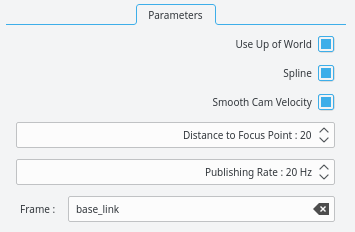
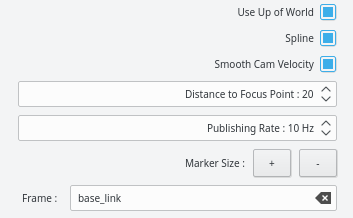
rqt_pose_interpolator: added buttons to increase and decrease the marker sizes

diff --git a/rqt_pose_interpolator/src/trajectory_editor.cpp b/rqt_pose_interpolator/src/trajectory_editor.cpp
@@ -54,6 +54,9 @@ void TrajectoryEditor::initPlugin(qt_gui_cpp::PluginContext& context)
   connect(ui_.set_pose_to_cam_button, SIGNAL(clicked(bool)), this, SLOT(setCurrentPoseToCam()));
   connect(ui_.frame_line_edit, SIGNAL(editingFinished()), this, SLOT(setMarkerFrames()));
   connect(ui_.splines_check_box, SIGNAL(stateChanged(int)), this, SLOT(updateTrajectory()));
+  connect(ui_.marker_size_increase, SIGNAL(clicked(bool)), this, SLOT(increaseMarkerScale()));
+  connect(ui_.marker_size_decrease, SIGNAL(clicked(bool)), this, SLOT(decreaseMarkerScale()));
+
   connect(ui_.open_file_push_button, SIGNAL(clicked(bool)), this, SLOT(loadTrajectoryFromFile()));
   connect(ui_.save_file_push_button, SIGNAL(clicked(bool)), this, SLOT(saveTrajectoryToFile()));
 
@@ -550,6 +553,37 @@ void TrajectoryEditor::setMarkerFrames()
   updateTrajectory();
 }
 
+void TrajectoryEditor::increaseMarkerScale()
+{
+  updateMarkerScales(1.1f);
+}
+
+void TrajectoryEditor::decreaseMarkerScale()
+{
+  updateMarkerScales(0.9f);
+}
+
+void TrajectoryEditor::updateMarkerScale(TimedMarker& marker, float scale_factor)
+{
+  marker.marker.scale *= scale_factor;
+  marker.marker.controls[0].markers[0].scale.x *= scale_factor;
+  marker.marker.controls[0].markers[0].scale.y *= scale_factor;
+  marker.marker.controls[0].markers[0].scale.z *= scale_factor;
+  marker.marker.controls[0].markers[1].scale.x *= scale_factor;
+  marker.marker.controls[0].markers[1].scale.y *= scale_factor;
+  marker.marker.controls[0].markers[1].scale.z *= scale_factor;
+}
+
+void TrajectoryEditor::updateMarkerScales(float scale_factor)
+{
+  updateMarkerScale(current_marker_, scale_factor);
+
+  for(auto& marker : markers_)
+    updateMarkerScale(marker, scale_factor);
+
+  updateServer(markers_);
+}
+
 void TrajectoryEditor::loadTrajectoryFromFile()
 {
   std::string directory_path = ros::package::getPath("rqt_pose_interpolator")  + "/trajectories/";
@@ -695,7 +729,7 @@ visualization_msgs::InteractiveMarker TrajectoryEditor::makeMarker(double x, dou
   marker.header.frame_id = ui_.frame_line_edit->text().toStdString();
   marker.name = "marker";
   marker.description = "Marker";
-  marker.scale = 2.22;
+  marker.scale = 2.22f;
   marker.pose.position.x = x;
   marker.pose.position.y = y;
   marker.pose.position.z = z;

diff --git a/rqt_pose_interpolator/include/rqt_pose_interpolator/trajectory_editor.h b/rqt_pose_interpolator/include/rqt_pose_interpolator/trajectory_editor.h
@@ -136,6 +136,10 @@ public slots:
   void updateTrajectory();
   /** @brief Sets the frame_id of the markers.*/
   void setMarkerFrames();
+  /** @brief Increase the scale of the markers.*/
+  void increaseMarkerScale();
+  /** @brief Decrease the scale of the markers.*/
+  void decreaseMarkerScale();
   /** @brief Loads a series of markers from a file.*/
   void loadTrajectoryFromFile();
   /** @brief Saves poses and transition times of interactive markers to a file.*/
@@ -159,6 +163,19 @@ private:
   visualization_msgs::InteractiveMarker makeMarker(double x=0.0,
                                                    double y=0.0,
                                                    double z=0.0);
+
+  /** @brief Updates the scale of the provided marker.
+   *
+   * @param[in, out]    marker          marker that is updated
+   * @param[in]         scale_factor    factor used to update the marker scale
+   */
+  void updateMarkerScale(TimedMarker& marker, float scale_factor);
+
+  /** @brief Updates the scales of the markers.
+   *
+   * @param[in]     scale_factor   factor used to update the markers' scales
+   */
+  void updateMarkerScales(float scale_factor);
 
   /**
    * @brief Checks if current position of rviz camera is within bounds of spin boxes.
